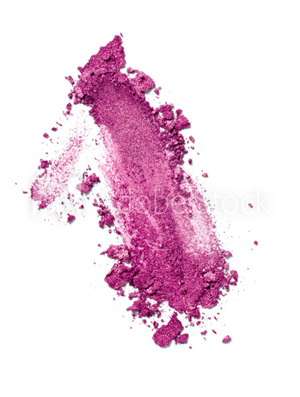
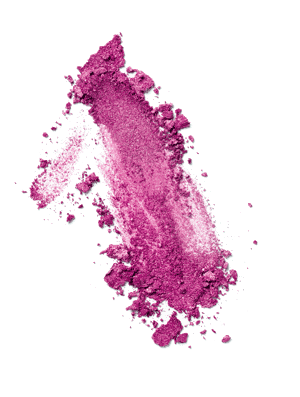
Added contact form functionality
Made working contact form
changed images to actual
Made shop button *FANCY*

diff --git a/index.html b/index.html
@@ -69,7 +69,7 @@
         <a href="https://twitter.com/LynMaggs"><img src=".img/LynMaggs-Twitter.png" alt="Find Lyn Maggs on Twitter" /></a>
         <a href="https://www.facebook.com/lynmaggs2"><img src=".img/LynMaggsFacebook.png" alt="Find Lyn Maggs on Facebook" /></a>
       </div>
-      <p>© <a href="http://maggsgroup.com">MaggsGroup</a> 2016</p>
+      <p>© <a href="http://maggsgroup.com">MaggsGroup</a> 2016 | Designed by <a href="http://bathwebsite.design">LS Web Services</a></p>
     </footer>
   </div>
 </body>

diff --git a/css/style.sass b/css/style.sass
@@ -160,6 +160,11 @@ header
     padding: 7px
     color: $greytext
     background-color: #fff
+    transition: all .5s
+    top: 0px
+    &:hover
+      box-shadow: 1px 8px 10px 2px #6A2EFF, 1px 12px 5px 3px white
+      top: -5px!important
     a
       width: 100%
       height: 100%

diff --git a/css/style.css b/css/style.css
@@ -206,6 +206,13 @@ header img {
   padding: 7px;
   color: #333;
   background-color: #fff;
+  transition: all 0.5s;
+  top: 0px;
+}
+
+#order .btn:hover {
+  box-shadow: 1px 8px 10px 2px #6A2EFF, 1px 12px 5px 3px white;
+  top: -5px !important;
 }
 
 #order .btn a {

diff --git a/contactengine.php b/contactengine.php
@@ -1,0 +1,43 @@
+<?php
+
+$EmailFrom = "contact@lyn.maggsgroup.com";
+$EmailTo = "lyn@maggsgroup.com";
+$Subject = "MaggsGroup Contact Form";
+$Name = Trim(stripslashes($_POST['Name']));
+$Tel = Trim(stripslashes($_POST['Tel']));
+$Email = Trim(stripslashes($_POST['Email']));
+$Message = Trim(stripslashes($_POST['Message']));
+
+// validation
+$validationOK=true;
+if (!$validationOK) {
+  print "<meta http-equiv=\"refresh\" content=\"0;URL=error.htm\">";
+  exit;
+}
+
+// prepare email body text
+$Body = "";
+$Body .= "Name: ";
+$Body .= $Name;
+$Body .= "\n";
+$Body .= "Tel: ";
+$Body .= $Tel;
+$Body .= "\n";
+$Body .= "Email: ";
+$Body .= $Email;
+$Body .= "\n";
+$Body .= "Message: ";
+$Body .= $Message;
+$Body .= "\n";
+
+// send email
+$success = mail($EmailTo, $Subject, $Body, "From: <$EmailFrom>");
+
+// redirect to success page
+if ($success){
+  print "<meta http-equiv=\"refresh\" content=\"0;URL=/\">";
+}
+else{
+  print "<meta http-equiv=\"refresh\" content=\"0;URL=error.htm\">";
+}
+?>
